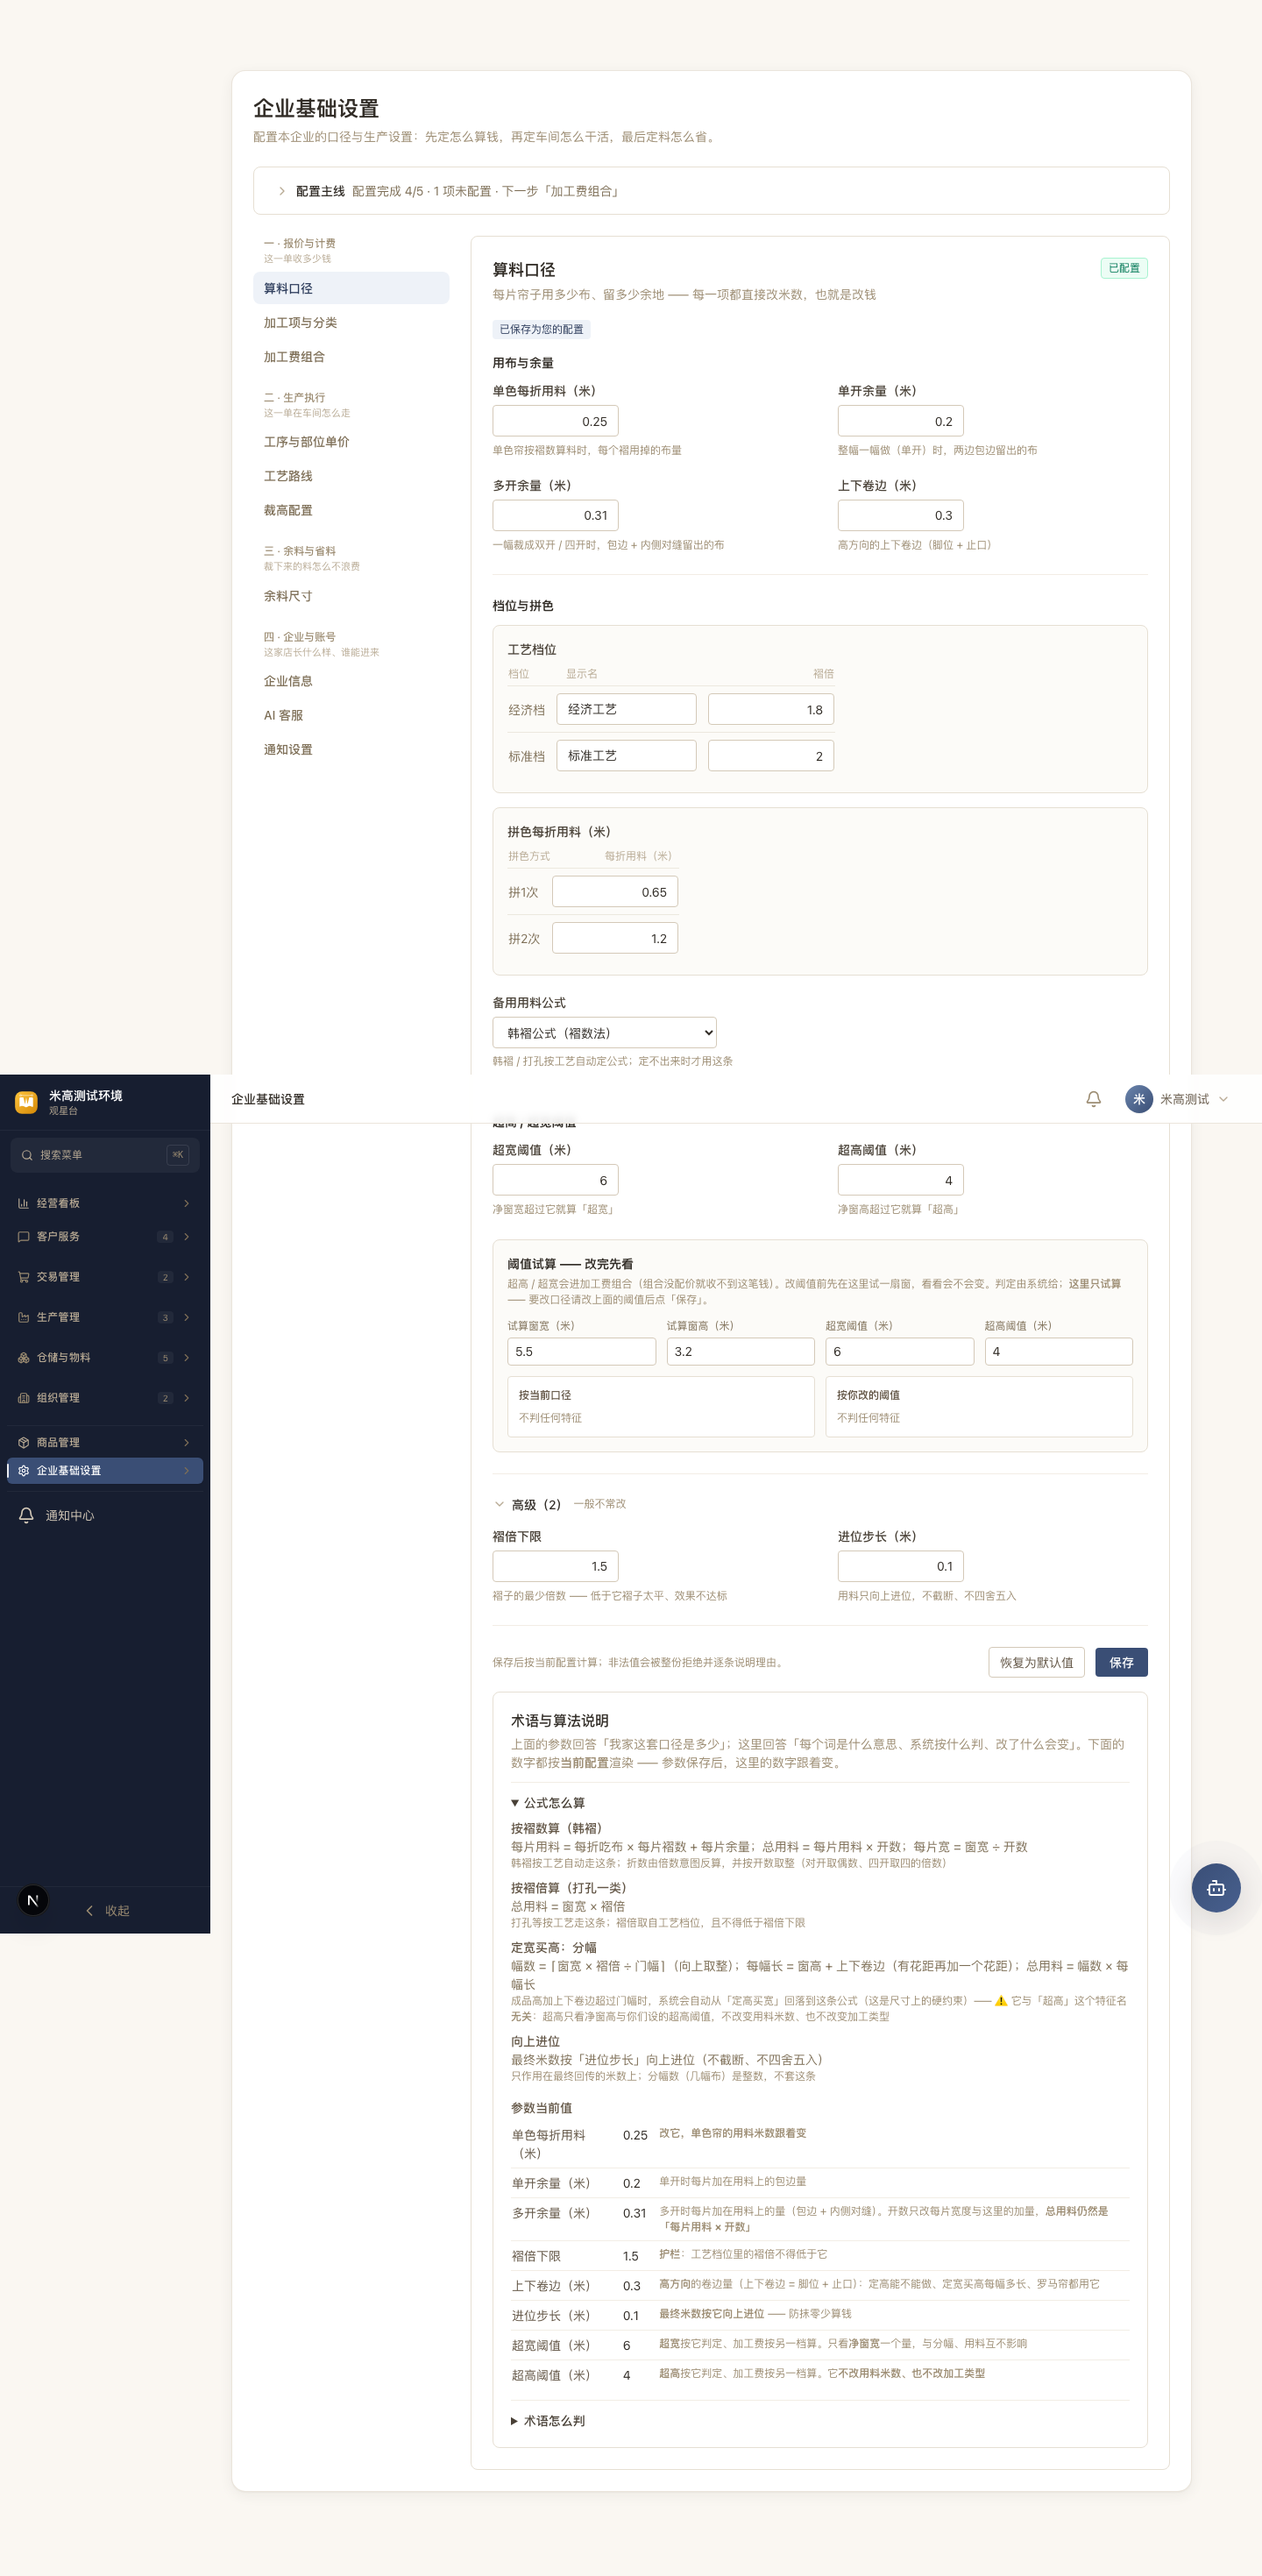
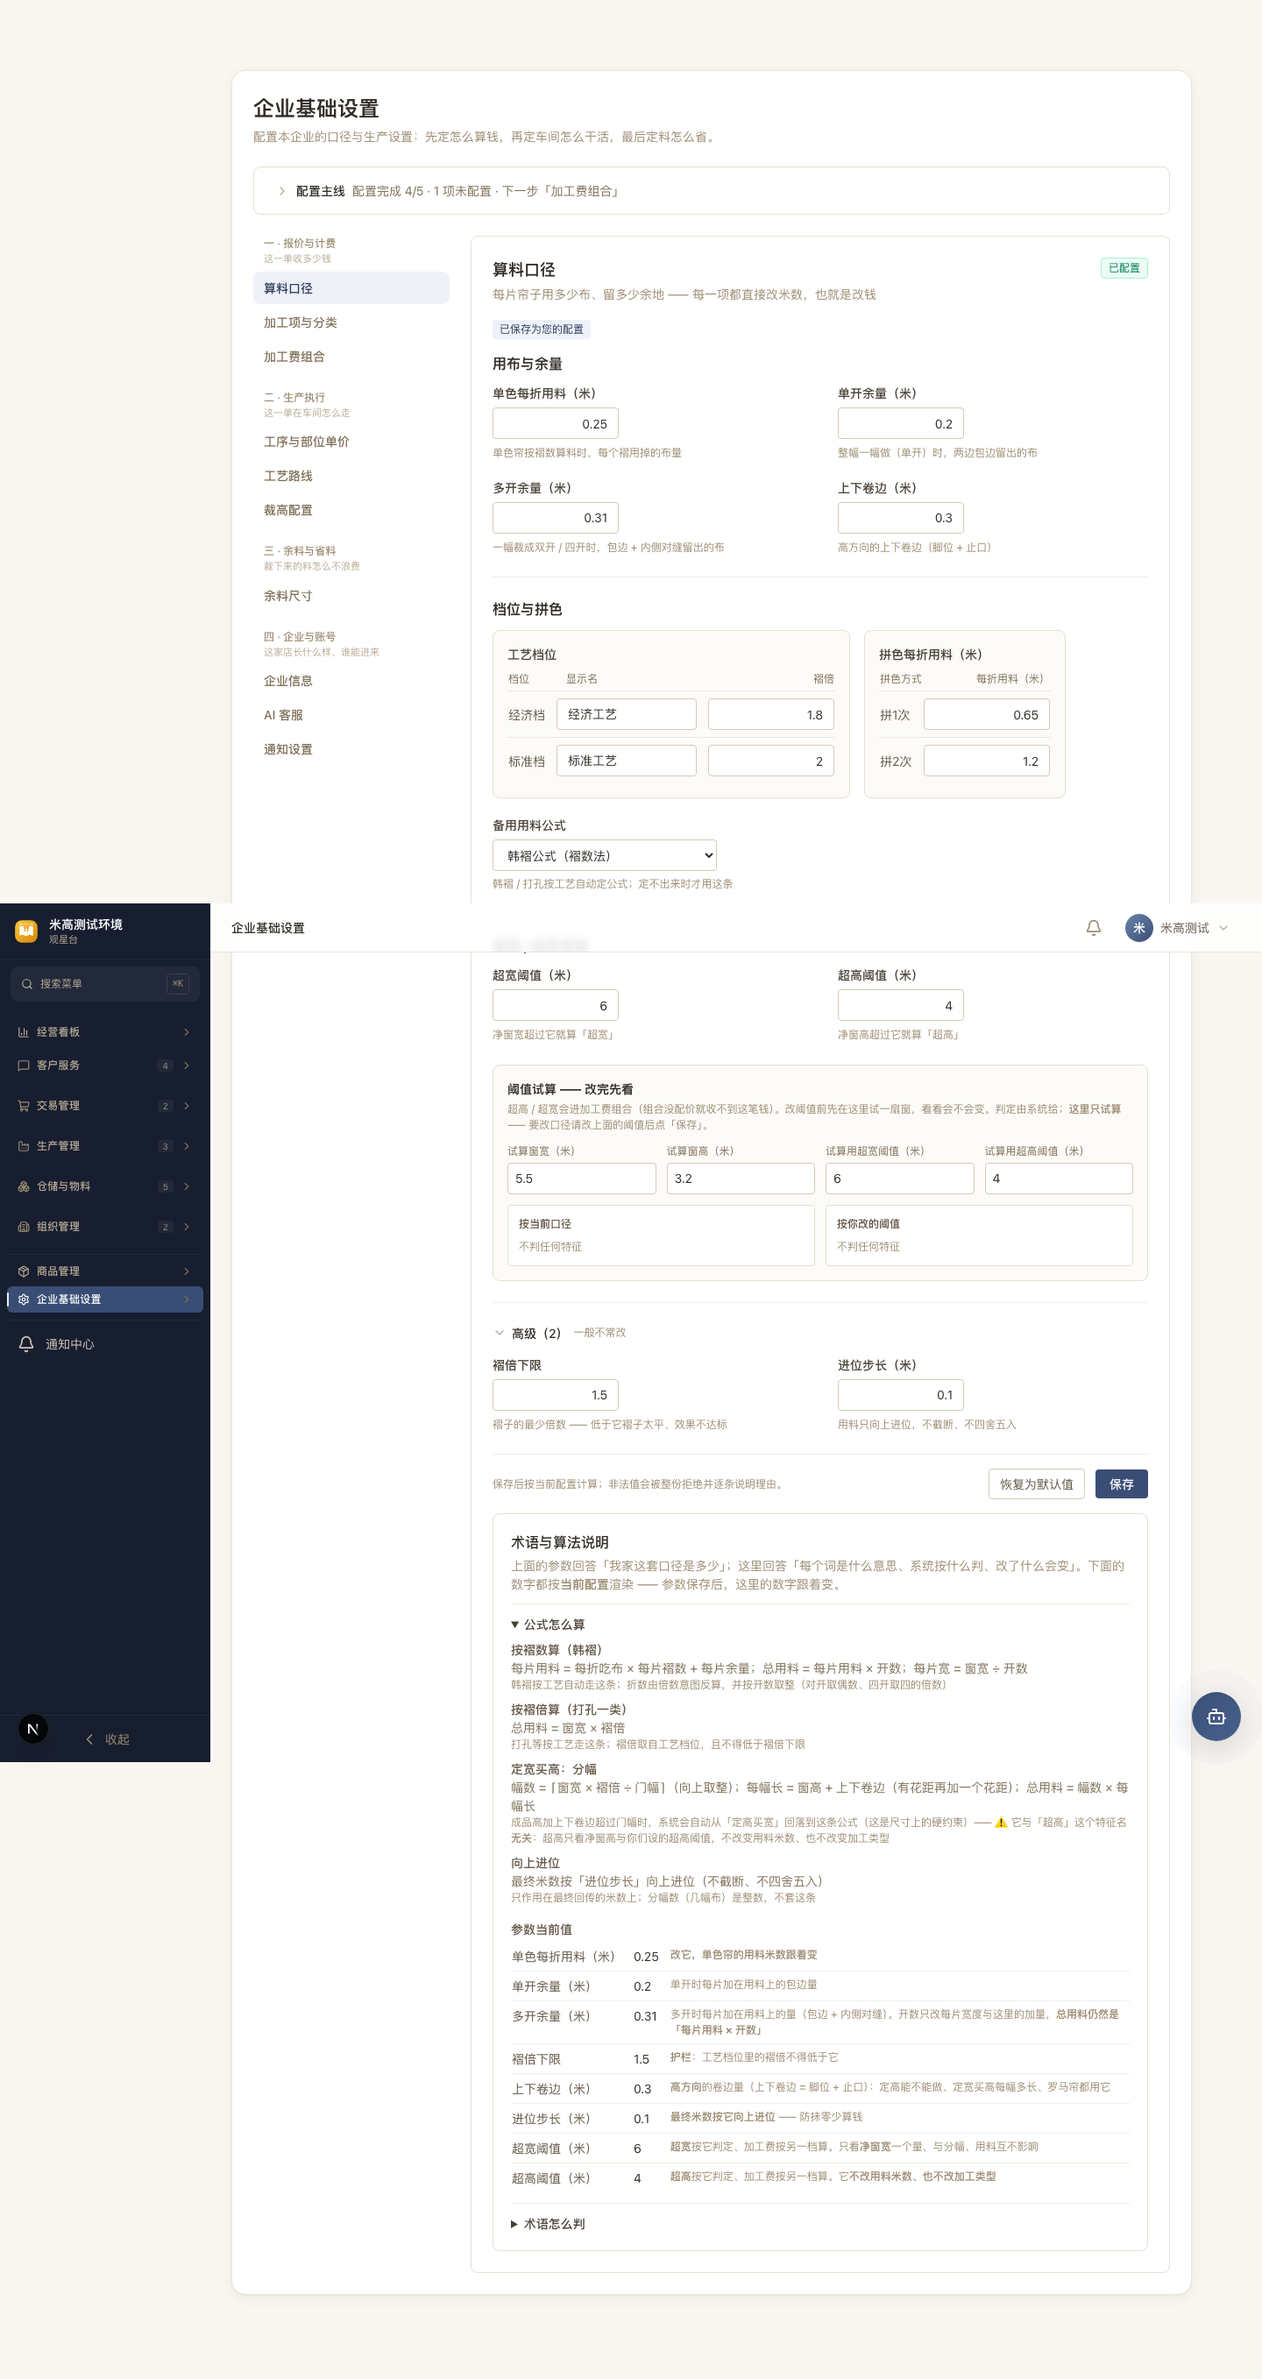
fix(settings): #7124 按独立复核处置 5 条 P2 + 1 条观察项（列头对比度/卡宽/标题层级/试算标签/保存条 sticky）
独立复核（另一个 AI，自写脚本、未复用本仓验收脚本）判「通过 + 5 条不阻塞 P2」，逐条处置：
- 列头 text-neutral-400（对白底 2.28:1）→ text-neutral-600（6.23:1）；行首列 → neutral-700
- 档位/拼色两卡：撑满整行（右侧空 357/535px）→ w-fit + flex-wrap（1440 并排、不缩列宽、窄容器换行）
- 区块标题 h3 14px → text-base（与 h4 卡标题拉开层级）
- 阈值试算标签加「试算用」前缀 + 高度统一 h-9（同屏两处同名可编辑框会被读成同一处）
- 保存条 sticky bottom-0（读数 {"position":"sticky","buttonBottom":979,"viewportH":980} ⇒ 改完不用滚到底）
- 术语「参数当前值」首列 whitespace-nowrap（「单色每折用料（米）」不再折两行）

⚠ 顺带被类级守卫抓到一次：JSX 注释里写了角括号标签名，命中 `list-table-nowrap-guard`（它按源码文本判）
⇒ 注释改成不带角括号的写法（判据不动、被守行为不变）。

diff --git a/frontend/admin-web/src/components/settings/CalcCaliberPanel.tsx b/frontend/admin-web/src/components/settings/CalcCaliberPanel.tsx
@@ -144,7 +144,7 @@ function FormSection({
       data-testid={testid}
       className={divider ? 'border-t border-neutral-100 pt-6' : undefined}
     >
-      <h3 className="text-sm font-semibold text-neutral-900">{title}</h3>
+      <h3 className="text-base font-semibold text-neutral-900">{title}</h3>
       <div className="mt-3">{children}</div>
     </section>
   )
@@ -448,9 +448,14 @@ export function CalcCaliberPanel({
               {/* 🔴 两张表**上下排**（不是并排）：并排时每张只剩 ~370px，而「档位 + 显示名（w-40）+
                   褶倍（w-36）」这三列合计就 ~360px ⇒ 真机 1440 实测右列被裁掉（验收读图实证）。
                   定宽是 #6857 的成果、不能为了并排去缩它（缩了又回到「挤」），所以让容器让步。 */}
-              <div className="space-y-4">
+              {/* 🔴 两张表**贴合内容、放得下就并排、放不下就换行**（不是撑满整行）：
+                  撑满整行时每张卡右侧会空出 357 / 535px（独立复核读图实测），
+                  并排 + `w-full` 时又会在 1440 下裁掉「褶倍」列（本包第一轮读图实测）。
+                  正解 = 卡宽贴合表格内容（`w-fit`）+ `flex-wrap`：1440 下两张并排且不裁切，
+                  窄容器下自动换行；`max-w-full` 兜住极窄容器。 */}
+              <div className="flex flex-wrap items-start gap-4">
                 {/* 档位表：一行一个档位（顾客看到的名字 + 褶倍） */}
-                <div className="rounded-lg border border-neutral-200 bg-neutral-50/50 p-4">
+                <div className="w-fit max-w-full rounded-lg border border-neutral-200 bg-neutral-50/50 p-4">
                   <h4 className="text-sm font-medium text-neutral-800">
                     {CALC_PARAM_COPY.tiers.label}
                   </h4>
@@ -458,17 +463,20 @@ export function CalcCaliberPanel({
                       挨在一起读；撑满会把定宽输入框之间的空白拉成一道鸿沟（验收读图实证）。 */}
                   <table className="mt-2 text-sm">
                     <tbody>
-                      {/* 列头用 `<td>` 而不是 `<th>`：列头本来就短、这张表也不需要横向逃逸口，
-                          而 `list-table-nowrap-guard` 的射程是「有 `<th>` 的表格」——
-                          不引 `<th>` 就不必造一个假的 overflow 容器（有意为之，不是漏了）。 */}
-                      <tr className="text-xs text-neutral-400">
+                      {/* 列头用 `td` 而不是 `th` **元素**：列头本来就短、这张表也不需要横向逃逸口，
+                          而 `list-table-nowrap-guard` 的射程是「带表头标签元素的表格」——
+                          不引它就不必造一个假的 overflow 容器（有意为之，不是漏了）。
+                          ⚠ 注释里也**不要写那个角括号标签名**：该守卫按源码文本判，注释同样命中。 */}
+                      {/* 列头色 = `text-neutral-600`（对白底 6.2:1，过 AA）；**旧的 400 只有 2.28:1**，
+                          12px 小字在真机上是「看着脏」的来源（独立复核读图实测）。 */}
+                      <tr className="text-xs text-neutral-600">
                         <td className="pb-1">档位</td>
                         <td className="pb-1 pl-3">显示名</td>
                         <td className="pb-1 text-right">褶倍</td>
                       </tr>
                       {Object.entries(tiers).map(([name, tier]) => (
                         <tr key={name} className="border-t border-neutral-200/70">
-                          <td className="py-2 pr-3 whitespace-nowrap text-neutral-600">
+                          <td className="py-2 pr-3 whitespace-nowrap text-neutral-700">
                             {tierLabelOf(name)}
                           </td>
                           <td className="py-2 pr-3">
@@ -513,20 +521,20 @@ export function CalcCaliberPanel({
                 </div>
 
                 {/* 拼色每折用料表：一行一个拼色次数 */}
-                <div className="rounded-lg border border-neutral-200 bg-neutral-50/50 p-4">
+                <div className="w-fit max-w-full rounded-lg border border-neutral-200 bg-neutral-50/50 p-4">
                   <h4 className="text-sm font-medium text-neutral-800">
                     {CALC_PARAM_COPY.per_fold_mixed_times.label}
                   </h4>
                   {/* 同档位表：不撑满，行内元素挨着读 */}
                   <table className="mt-2 text-sm">
                     <tbody>
-                      <tr className="text-xs text-neutral-400">
+                      <tr className="text-xs text-neutral-600">
                         <td className="pb-1">拼色方式</td>
                         <td className="pb-1 text-right">每折用料（米）</td>
                       </tr>
                       {Object.entries(mixed).map(([times, perFold]) => (
                         <tr key={times} className="border-t border-neutral-200/70">
-                          <td className="py-2 pr-3 whitespace-nowrap text-neutral-600">
+                          <td className="py-2 pr-3 whitespace-nowrap text-neutral-700">
                             拼{times}次
                           </td>
                           <td className="py-2">
@@ -629,7 +637,7 @@ export function CalcCaliberPanel({
 
           {/* 全域**唯一**的保存按钮（受控只读形态 / 读失败 ⇒ 不渲染）；说明在左、按钮在右 */}
           {writable && displayConfig && (
-            <div className="border-t border-neutral-100 pt-6">
+            <div className="sticky bottom-0 z-10 border-t border-neutral-100 bg-white pt-4">
               <div className="flex flex-wrap items-center justify-end gap-3">
                 <span className="mr-auto text-xs text-neutral-500">
                   保存后按当前配置计算；非法值会被整份拒绝并逐条说明理由。

diff --git a/frontend/admin-web/src/components/settings/OversizeThresholdPreview.tsx b/frontend/admin-web/src/components/settings/OversizeThresholdPreview.tsx
@@ -141,8 +141,10 @@ export function OversizeThresholdPreview({ config }: Props) {
           [
             ['试算窗宽（米）', 'preview-width', width, setWidth],
             ['试算窗高（米）', 'preview-height', height, setHeight],
-            ['超宽阈值（米）', 'preview-threshold-width', widthThreshold, setWidthThreshold],
-            ['超高阈值（米）', 'preview-threshold-height', heightThreshold, setHeightThreshold],
+            // 🔴 与上面的配置字段**同名会被读成「同一个框」**（独立复核读图实测：同屏两处
+            //    「超宽阈值（米）」可编辑框，一处改配置、一处只影响试算）⇒ 标题写明「试算用」。
+            ['试算用超宽阈值（米）', 'preview-threshold-width', widthThreshold, setWidthThreshold],
+            ['试算用超高阈值（米）', 'preview-threshold-height', heightThreshold, setHeightThreshold],
           ] as const
         ).map(([label, testid, value, setter]) => (
           <label key={testid} className="block">
@@ -153,7 +155,7 @@ export function OversizeThresholdPreview({ config }: Props) {
               data-testid={testid}
               value={value === '' ? null : value}
               onChange={(v) => (setter as (v: number | '') => void)(v === null ? '' : v)}
-              className="w-full h-8 px-2 rounded border border-neutral-300 text-sm focus:outline-none focus:border-primary-500"
+              className="w-full h-9 px-2 rounded border border-neutral-300 text-sm focus:outline-none focus:border-primary-500"
             />
           </label>
         ))}

diff --git a/frontend/admin-web/src/components/production/CraftCalcGlossary.tsx b/frontend/admin-web/src/components/production/CraftCalcGlossary.tsx
@@ -177,7 +177,7 @@ export function CraftCalcGlossary({ config }: { config: CraftCalcConfig }) {
                 data-testid={`glossary-param-${key}`}
                 className="border-b border-neutral-100 last:border-b-0"
               >
-                <td className="py-1.5 pr-3 align-top text-neutral-700">
+                <td className="py-1.5 pr-3 align-top text-neutral-700 whitespace-nowrap">
                   <InlineMarkdown text={CALC_PARAM_COPY[key].label} />
                 </td>
                 <td

diff --git a/acceptance/2026-10-17/calc-caliber-7124/README.md b/acceptance/2026-10-17/calc-caliber-7124/README.md
@@ -27,6 +27,18 @@ echo $?    # 0 = 三条机器判据全过
 | 1 | `算料口径-整页.png`（14:39） | 分组/标签在上/提示收尾 ✓；**发现缺陷**：档位表与拼色表**并排**时右列被裁（「褶倍」列只剩半列） |
 | 2 | 同上 + `档位与拼色.png`（14:40，改后） | 两表改**上下排**、表格不撑满 ⇒ 列头与输入框对齐、无裁切 ✓ |
 | 3 | `算料口径-整页.png`（14:44，文案改后重拍） | 阈值试算文案改为「**这里只试算** —— 要改口径请改上面的阈值后点「保存」」；不再与能保存的写面自相矛盾 ✓ |
+| 4 | `档位与拼色.png` + `保存条-sticky.png`（14:47，按独立复核的 P2 处置后重拍） | 两卡贴合内容并排（不再是「748px 大框装 196–374px 小表」）、列头加深到 6.2:1、区块标题升到 16px、保存条 sticky 在视口底部（读数 `{"position":"sticky","buttonBottom":979,"viewportH":980}`）✓ |
+
+### 独立复核（另一个 AI，自己写脚本、不看本目录脚本）发现的 P2 与处置
+
+| P2 | 处置 | 本目录证据 |
+|---|---|---|
+| 表格列头 12px `text-neutral-400` 只有 **2.28:1**（AA 需 4.5） | 改 `text-neutral-600`（对白底 **6.23:1**）、行首列 `text-neutral-700` | `档位与拼色.png` 第 4 轮 |
+| 两卡撑满整行 ⇒ 右侧空 357/535px | 卡宽 `w-fit` + `flex-wrap`：1440 下两卡并排、窄容器换行、不缩列宽 | 同上 |
+| h3 区块标题与 h4 卡标题同为 14px（只差字重） | h3 升到 `text-base`（16px/600） | 同上 |
+| 阈值同屏两处同名可编辑框（配置 vs 试算）、高度也不一致（36 vs 32） | 试算侧标签加「试算用」前缀 + 高度统一 `h-9` | `算料口径-整页.png` |
+| 保存条距首屏 1.8 屏，改完要滚 1.3 屏才够到「保存」 | 保存条 `sticky bottom-0`（白底 + 上分隔线） | `保存条-sticky.png` + 上方读数 |
+| 观察项：术语「参数当前值」首列 126.7px ⇒「单色每折用料（米）」折两行 | 首列加 `whitespace-nowrap` | 术语区块 |
 
 第 1 轮读到的缺陷当场修（`grid lg:grid-cols-2` → `space-y-4`；表格去掉 `w-full`）——
 `档位 + 显示名(w-40) + 褶倍(w-36)` 三列合计 ≈360px，而并排时每张只剩 ~370px（含内边距） ⇒
